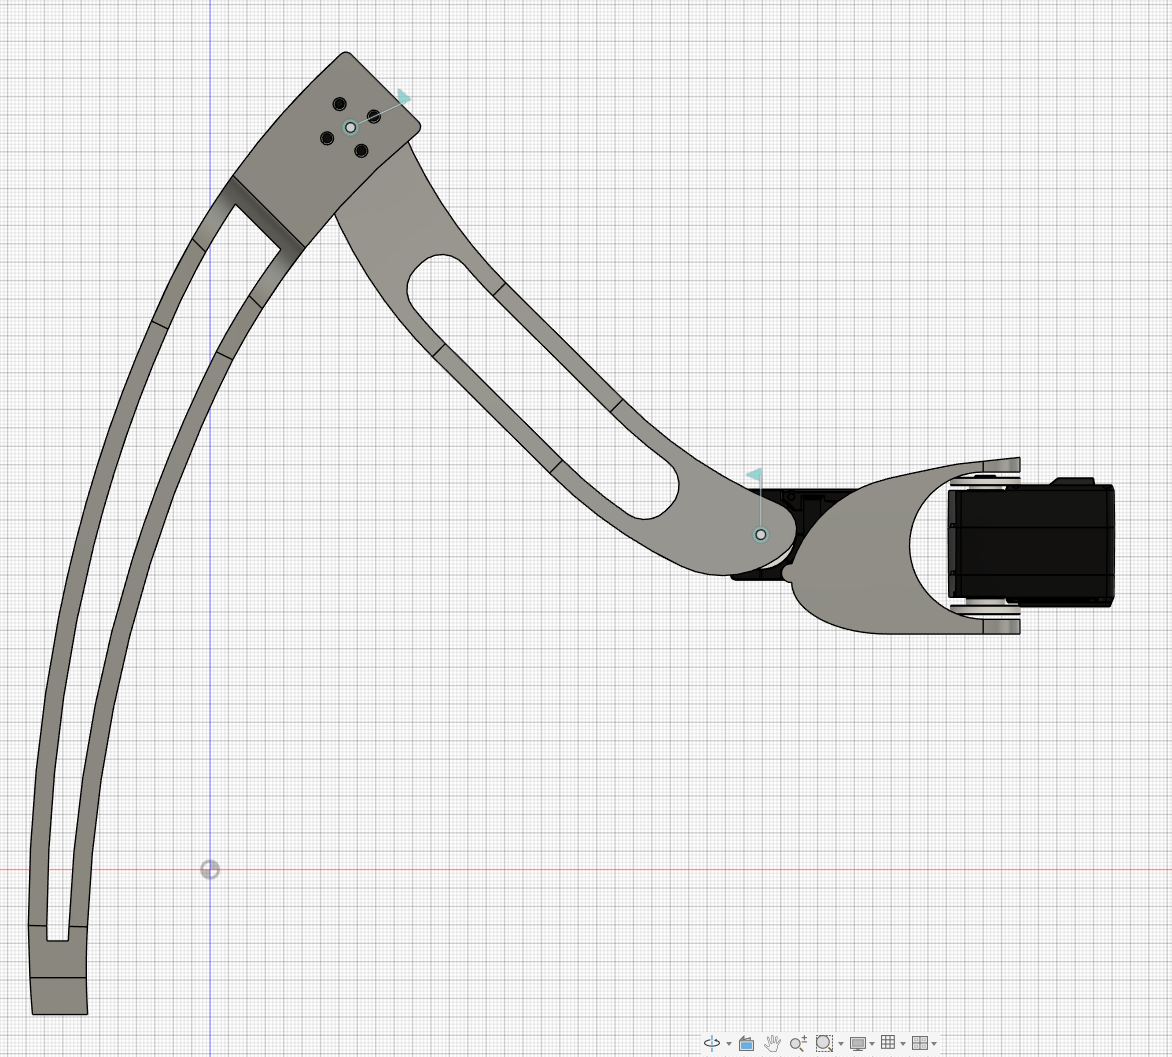
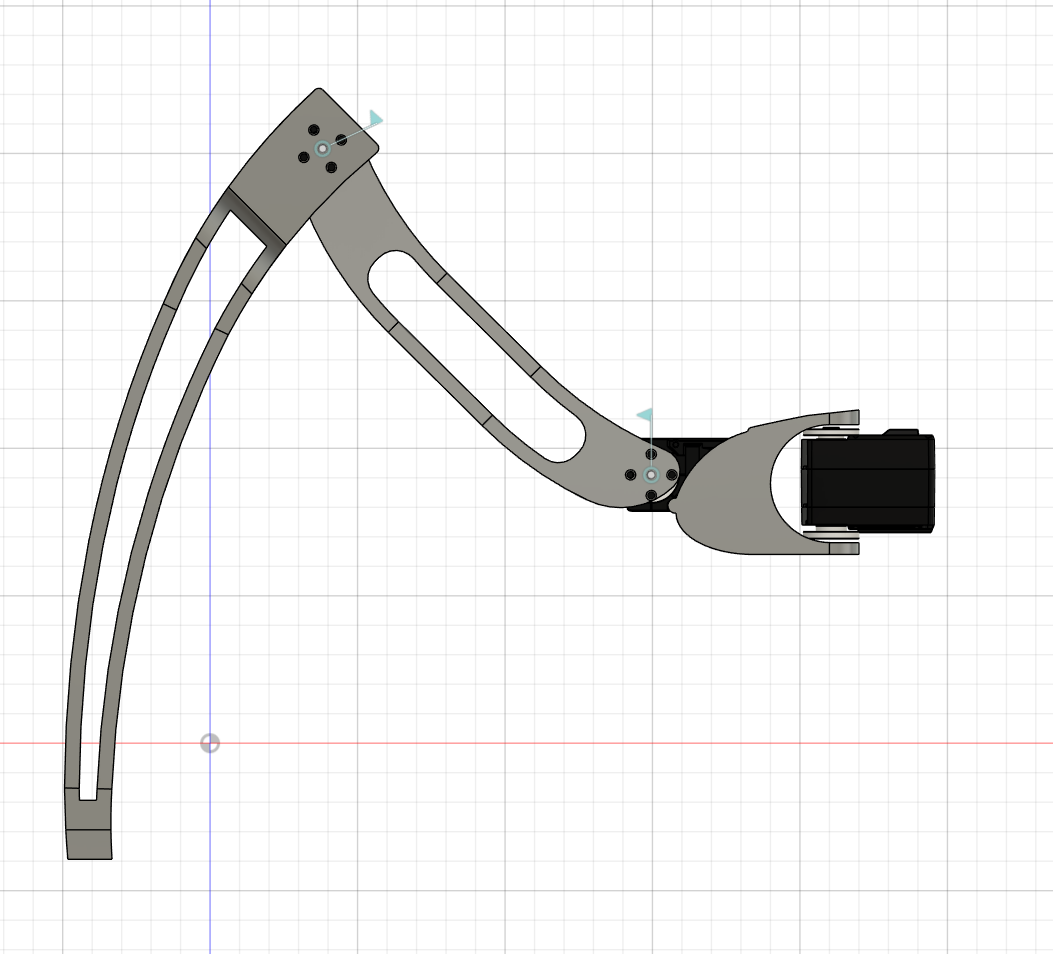
Add current leg views with coxa (iso, side, top, coxa at -75°)
Claude-Session: https://claude.ai/code/session_01T4HzsSgR2otUQoaqZYcbTq

Changed region(s): [[0.0, 0.0, 1.0, 1.0]]

diff --git a/README.md b/README.md
@@ -2,7 +2,11 @@
 
 Itsy is a 6-legged, 18-servo hexapod that roams the house like a pet: it maps the rooms with lidar, recognizes people and our cat, answers when you say "Itsy", climbs real stairs and drives itself to its charging dock when the battery runs low.
 
-![Itsy leg in Fusion 360](docs/images/leg_side.png)
+![Itsy leg in Fusion 360](docs/images/leg_iso.png)
+
+| Side | Top | Top, coxa at −75° |
+| --- | --- | --- |
+| ![Leg side view](docs/images/leg_side.png) | ![Leg top view](docs/images/leg_top.png) | ![Coxa turned to −75°](docs/images/leg_coxa_-75.png) |
 
 ## Status
 
